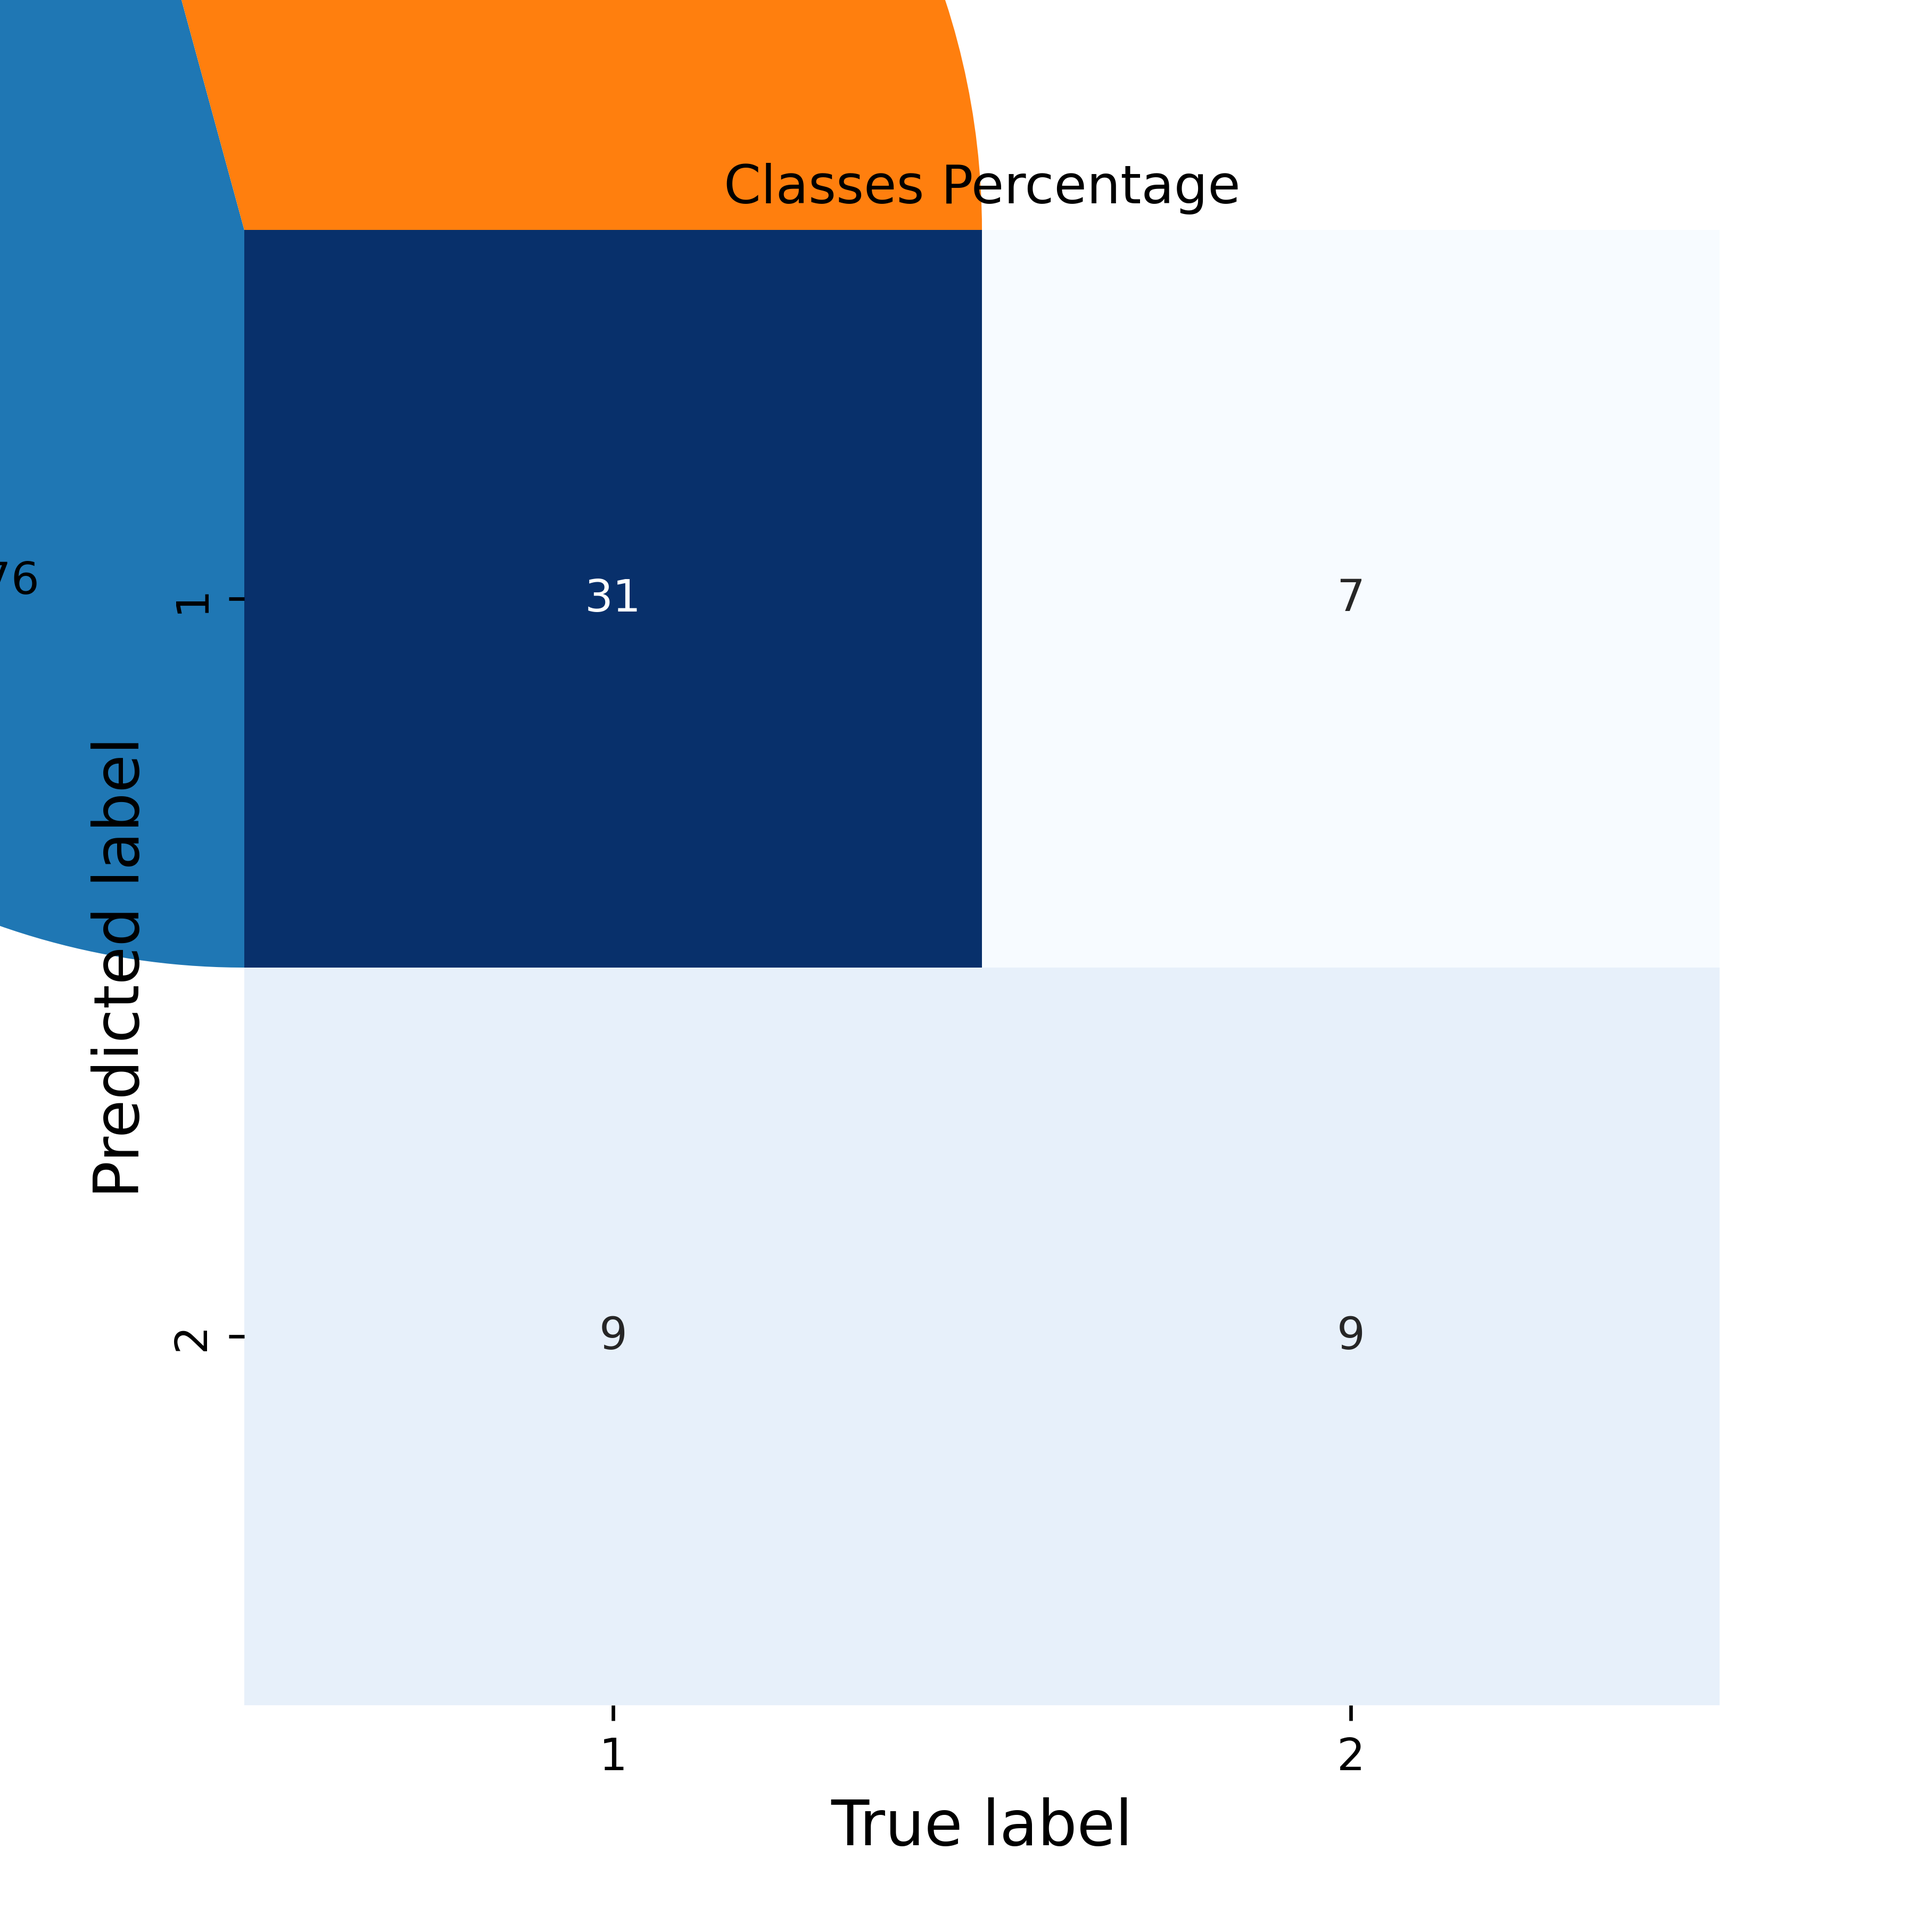
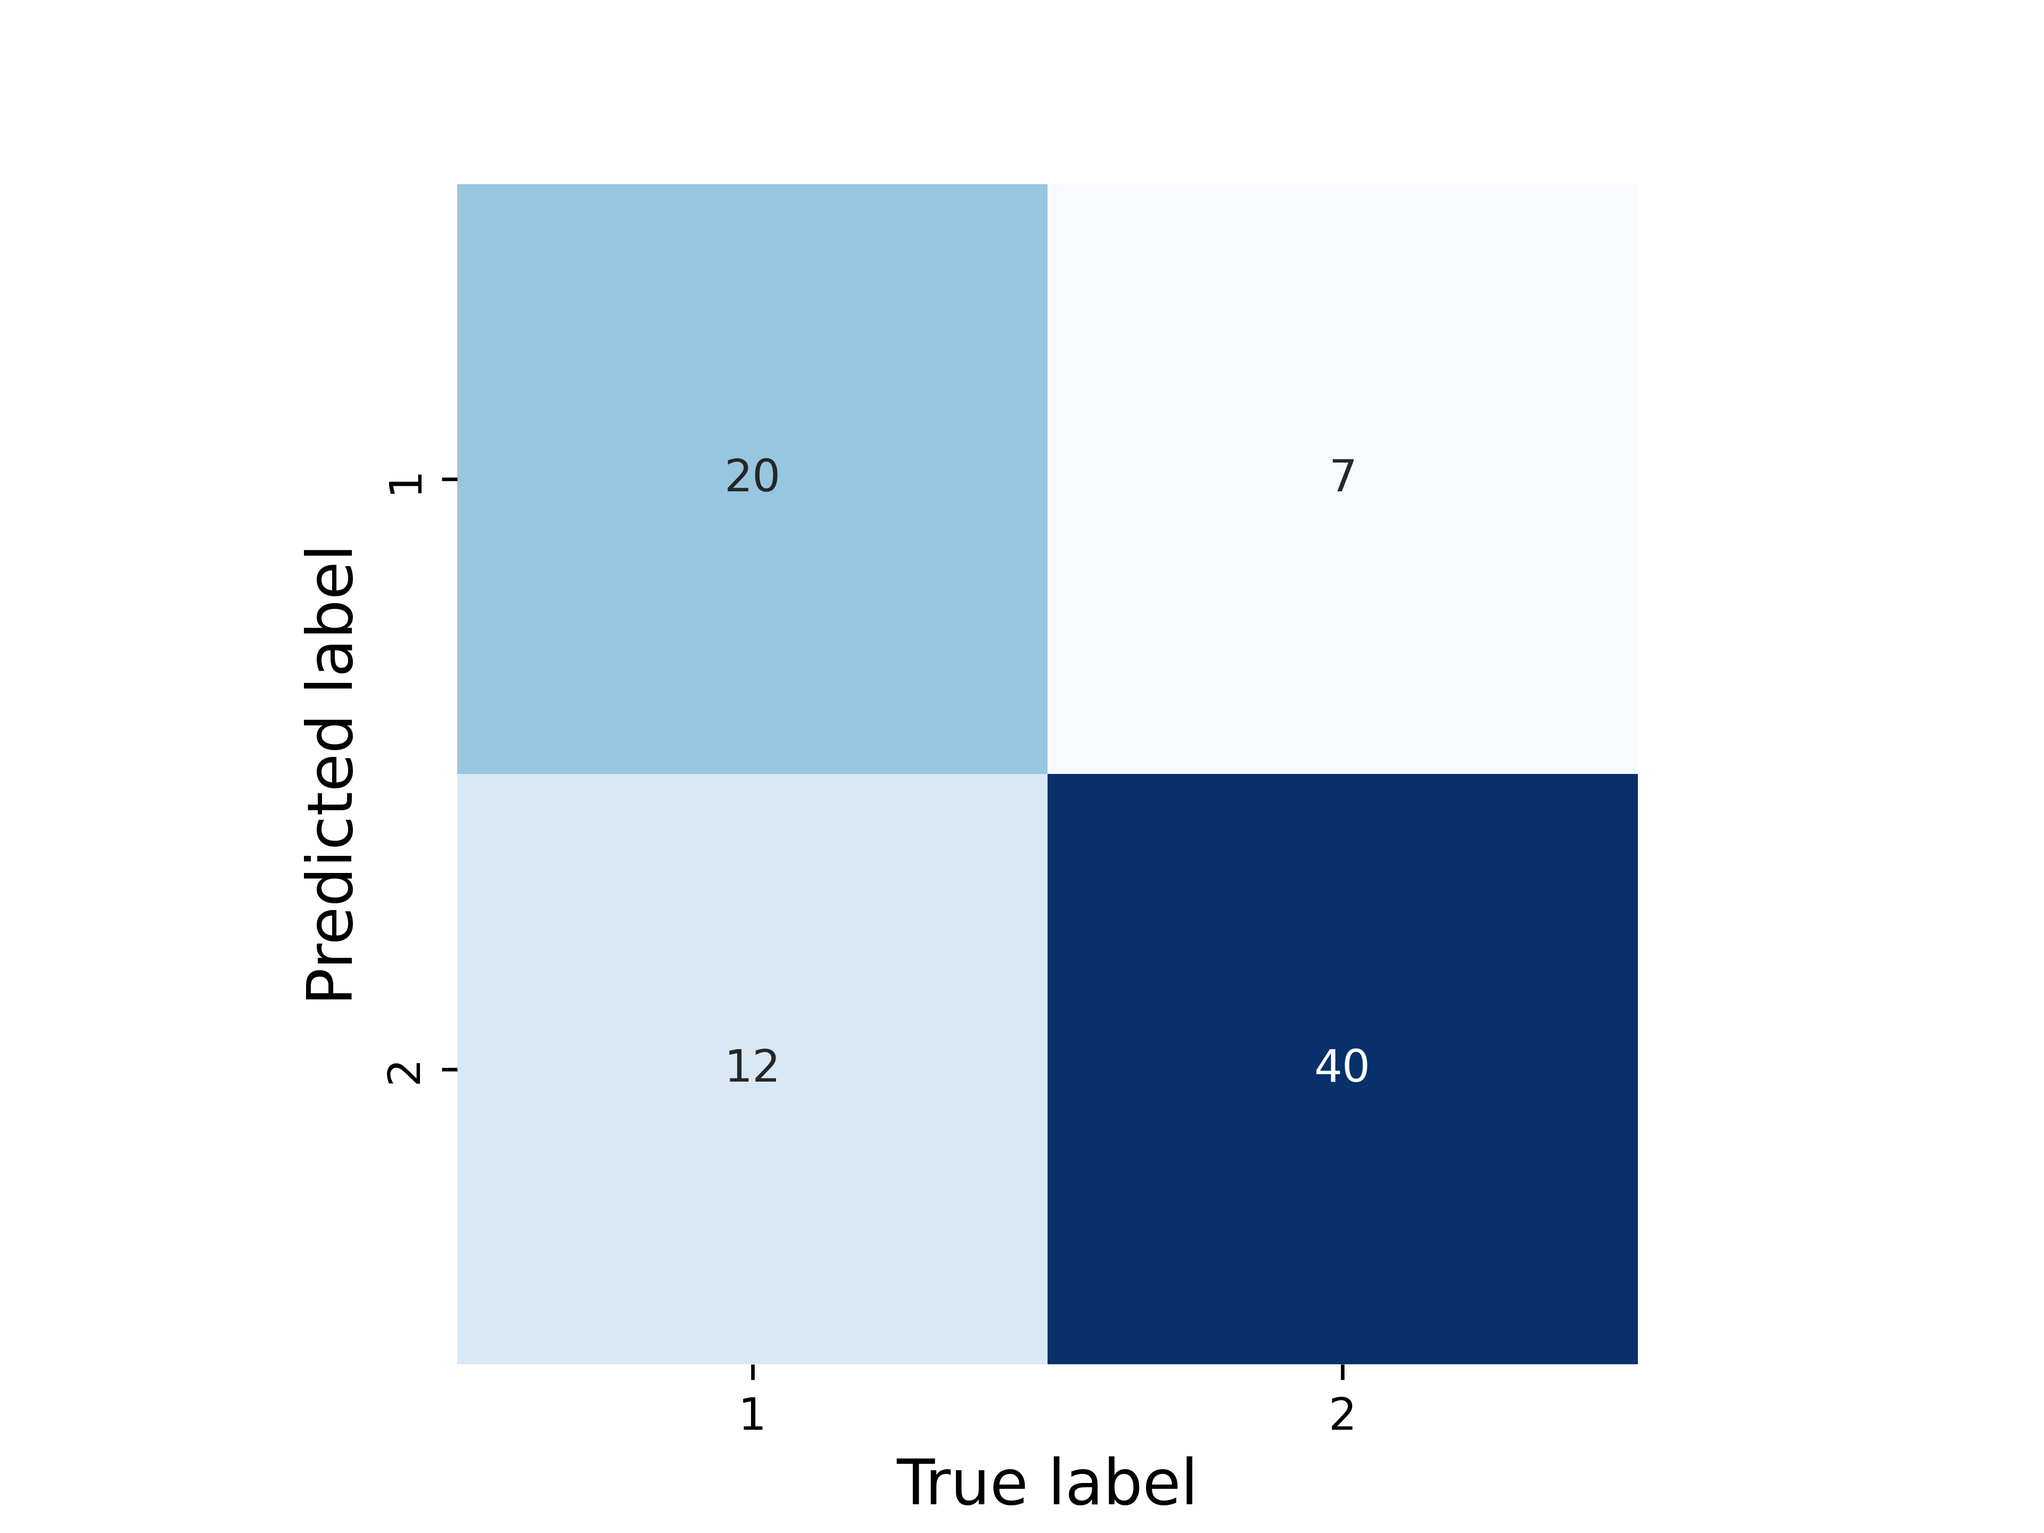
:bugfix:Fixed random sedd in order to have always the same results.

diff --git a/src/main.py b/src/main.py
@@ -1,114 +1,12 @@
 from database.bc_database import BreastCancerDB
 from preprocessing.preprocessing import Preprocessing
 
-from models.perceptron import Perceptron
-from models.adaline import Adaline
-
 import pandas as pd
-
-import seaborn as sns
-import matplotlib.pyplot as plt
-
-from sklearn.tree import DecisionTreeClassifier
-from sklearn.ensemble import RandomForestClassifier
-from sklearn.neighbors import KNeighborsClassifier
+import numpy as np
 
 from sklearn.model_selection import train_test_split
-from sklearn.metrics import accuracy_score, confusion_matrix
 
-def perceptron(X_train, X_test, y_train, y_test):
-    # Perceptron
-    perceptron = Perceptron(alpha=0.01, n_epochs=1000)
-    perceptron.train(X_train, y_train)
-    predictedPerceptron = perceptron.test(X_test)
-    print(f'Accuracy score for Perceptron: {accuracy_score(y_test, predictedPerceptron)}')
-    # Plot the confusion matrix.
-    mat = confusion_matrix(y_test, predictedPerceptron)
-    sns.heatmap(mat.T, square=True, annot=True, fmt='d', cbar=False, xticklabels=['1','2'], yticklabels=['1','2'], cmap="Blues")
-    plt.xlabel('True label', fontsize=14)
-    plt.ylabel('Predicted label', fontsize=14)
-    plt.savefig('src/models/images/confusion_matrix_perceptron.png', dpi=600)
-    plt.close()
-
-def adaline(X_train, X_test, y_train, y_test):
-    # Adaline
-    adaline = Adaline(alpha=0.01, n_epochs=1000, max_error=1e-12)
-    adaline.train(X_train, y_train)
-    predictedAdaline = adaline.test(X_test)
-    print(f'Accuracy score for Adaline: {accuracy_score(y_test, predictedAdaline)}')
-    # Plot the confusion matrix.
-    mat = confusion_matrix(y_test, predictedAdaline)
-    sns.heatmap(mat.T, square=True, annot=True, fmt='d', cbar=False, xticklabels=['1','2'], yticklabels=['1','2'], cmap="Blues")
-    plt.xlabel('True label', fontsize=14)
-    plt.ylabel('Predicted label', fontsize=14)
-    plt.savefig('src/models/images/confusion_matrix_adaline.png', dpi=600)
-    plt.close()
-
-def decisionTree(X_train, X_test, y_train, y_test):
-    # Decision Tree
-    decisionTree = DecisionTreeClassifier()
-    decisionTree.fit(X_train, y_train)
-    predictedDecisionTree = decisionTree.predict(X_test)
-    print(f'Accuracy score for Decision Tree: {accuracy_score(y_test, predictedDecisionTree)}')
-    # Plot the confusion matrix.
-    mat = confusion_matrix(y_test, predictedDecisionTree)
-    sns.heatmap(mat.T, square=True, annot=True, fmt='d', cbar=False, xticklabels=['1','2'], yticklabels=['1','2'], cmap="Blues")
-    plt.xlabel('True label', fontsize=14)
-    plt.ylabel('Predicted label', fontsize=14)
-    plt.savefig('src/models/images/confusion_matrix_decisionTree.png', dpi=600)
-    plt.close()
-
-def randomForest(X_train, X_test, y_train, y_test):
-    # Random Forest
-    randomForest = RandomForestClassifier()
-    randomForest.fit(X_train, y_train)
-    predictedRandomForest = randomForest.predict(X_test)
-    print(f'Accuracy score for Random Forest: {accuracy_score(y_test, predictedRandomForest)}')
-    # Plot the confusion matrix.
-    mat = confusion_matrix(y_test, predictedRandomForest)
-    sns.heatmap(mat.T, square=True, annot=True, fmt='d', cbar=False, xticklabels=['1','2'], yticklabels=['1','2'], cmap="Blues")
-    plt.xlabel('True label', fontsize=14)
-    plt.ylabel('Predicted label', fontsize=14)
-    plt.savefig('src/models/images/confusion_matrix_randomForest.png', dpi=600)
-    plt.close()
-
-def knn(X_train, X_test, y_train, y_test):
-    # K-Nearest Neighboor
-    acc_train = []
-    acc_test = []
-    score_max = 0
-    k_max = 0
-    Kmax = 99
-    for k in range(1, Kmax+1, 2):
-        # Create an instance of Neighbours Classifier and fit the data.
-        clf = KNeighborsClassifier(k, weights='distance')
-        # Train the classifier.
-        clf.fit(X_train, y_train)
-        # Predict.
-        predictedKnn = clf.predict(X_test)
-        # Calculate score.
-        score_test = clf.score(X_test, y_test)
-        acc_test.append(score_test)
-        score_train = clf.score(X_train, y_train)
-        acc_train.append(score_train)    
-        if(score_test > score_max):
-            score_max = score_test
-            k_max = k
-    # Train with best k
-    # Create an instance of Neighbours Classifier and fit the data.
-    clf = KNeighborsClassifier(k, weights='distance')
-    # Train the classifier.
-    clf.fit(X_train, y_train)
-    # Predict.
-    predictedKnn = clf.predict(X_test)
-    print(f'Accuracy score for KNN using {k_max} neighboors: {accuracy_score(y_test, predictedKnn)}')
-    # Plot the confusion matrix.
-    mat = confusion_matrix(y_test, predictedKnn)
-    sns.heatmap(mat.T, square=True, annot=True, fmt='d', cbar=False, xticklabels=['1','2'], yticklabels=['1','2'], cmap="Blues")
-    plt.xlabel('True label', fontsize=14)
-    plt.ylabel('Predicted label', fontsize=14)
-    plt.savefig('src/models/images/confusion_matrix_knn.png', dpi=600)
-    plt.close()
+from models.models import *
 
 def main():
     print('Succesfully started!')
@@ -118,6 +16,8 @@ def main():
     user = 'root'
     password = 'root'
     database = 'ag002'
+
+    np.random.seed(1000)
 
     # Accessing Database and getting information to train Machine Learning models
     bcDatabase = BreastCancerDB(host=host, port=port, user=user, password=password, database=database)

diff --git a/src/models/models.py b/src/models/models.py
@@ -1,0 +1,108 @@
+import pandas as pd
+import numpy as np
+
+import seaborn as sns
+import matplotlib.pyplot as plt
+
+from sklearn.tree import DecisionTreeClassifier
+from sklearn.ensemble import RandomForestClassifier
+from sklearn.neighbors import KNeighborsClassifier
+
+from models.neural_networks.perceptron import Perceptron
+from models.neural_networks.adaline import Adaline
+
+from sklearn.metrics import accuracy_score, confusion_matrix
+
+def perceptron(X_train, X_test, y_train, y_test):
+    # Perceptron
+    perceptron = Perceptron(alpha=0.001, n_epochs=15000)
+    perceptron.train(X_train, y_train)
+    predictedPerceptron = perceptron.test(X_test)
+    print(f'Accuracy score for Perceptron: {accuracy_score(y_test, predictedPerceptron)}')
+    # Plot the confusion matrix.
+    mat = confusion_matrix(y_test, predictedPerceptron)
+    sns.heatmap(mat.T, square=True, annot=True, fmt='d', cbar=False, xticklabels=['1','2'], yticklabels=['1','2'], cmap="Blues")
+    plt.xlabel('True label', fontsize=14)
+    plt.ylabel('Predicted label', fontsize=14)
+    plt.savefig('src/models/images/confusion_matrix_perceptron.png', dpi=600)
+    plt.close()
+
+def adaline(X_train, X_test, y_train, y_test):
+    # Adaline
+    adaline = Adaline(alpha=0.001, n_epochs=10000, max_error=1e-12)
+    adaline.train(X_train, y_train)
+    predictedAdaline = adaline.test(X_test)
+    print(f'Accuracy score for Adaline: {accuracy_score(y_test, predictedAdaline)}')
+    # Plot the confusion matrix.
+    mat = confusion_matrix(y_test, predictedAdaline)
+    sns.heatmap(mat.T, square=True, annot=True, fmt='d', cbar=False, xticklabels=['1','2'], yticklabels=['1','2'], cmap="Blues")
+    plt.xlabel('True label', fontsize=14)
+    plt.ylabel('Predicted label', fontsize=14)
+    plt.savefig('src/models/images/confusion_matrix_adaline.png', dpi=600)
+    plt.close()
+
+def decisionTree(X_train, X_test, y_train, y_test):
+    # Decision Tree
+    decisionTree = DecisionTreeClassifier()
+    decisionTree.fit(X_train, y_train)
+    predictedDecisionTree = decisionTree.predict(X_test)
+    print(f'Accuracy score for Decision Tree: {accuracy_score(y_test, predictedDecisionTree)}')
+    # Plot the confusion matrix.
+    mat = confusion_matrix(y_test, predictedDecisionTree)
+    sns.heatmap(mat.T, square=True, annot=True, fmt='d', cbar=False, xticklabels=['1','2'], yticklabels=['1','2'], cmap="Blues")
+    plt.xlabel('True label', fontsize=14)
+    plt.ylabel('Predicted label', fontsize=14)
+    plt.savefig('src/models/images/confusion_matrix_decisionTree.png', dpi=600)
+    plt.close()
+
+def randomForest(X_train, X_test, y_train, y_test):
+    # Random Forest
+    randomForest = RandomForestClassifier()
+    randomForest.fit(X_train, y_train)
+    predictedRandomForest = randomForest.predict(X_test)
+    print(f'Accuracy score for Random Forest: {accuracy_score(y_test, predictedRandomForest)}')
+    # Plot the confusion matrix.
+    mat = confusion_matrix(y_test, predictedRandomForest)
+    sns.heatmap(mat.T, square=True, annot=True, fmt='d', cbar=False, xticklabels=['1','2'], yticklabels=['1','2'], cmap="Blues")
+    plt.xlabel('True label', fontsize=14)
+    plt.ylabel('Predicted label', fontsize=14)
+    plt.savefig('src/models/images/confusion_matrix_randomForest.png', dpi=600)
+    plt.close()
+
+def knn(X_train, X_test, y_train, y_test):
+    # K-Nearest Neighboor
+    acc_train = []
+    acc_test = []
+    score_max = 0
+    k_max = 0
+    Kmax = 99
+    for k in range(1, Kmax+1, 2):
+        # Create an instance of Neighbours Classifier and fit the data.
+        clf = KNeighborsClassifier(k, weights='distance')
+        # Train the classifier.
+        clf.fit(X_train, y_train)
+        # Predict.
+        predictedKnn = clf.predict(X_test)
+        # Calculate score.
+        score_test = clf.score(X_test, y_test)
+        acc_test.append(score_test)
+        score_train = clf.score(X_train, y_train)
+        acc_train.append(score_train)    
+        if(score_test > score_max):
+            score_max = score_test
+            k_max = k
+    # Train with best k
+    # Create an instance of Neighbours Classifier and fit the data.
+    clf = KNeighborsClassifier(k, weights='distance')
+    # Train the classifier.
+    clf.fit(X_train, y_train)
+    # Predict.
+    predictedKnn = clf.predict(X_test)
+    print(f'Accuracy score for KNN using {k_max} neighboors: {accuracy_score(y_test, predictedKnn)}')
+    # Plot the confusion matrix.
+    mat = confusion_matrix(y_test, predictedKnn)
+    sns.heatmap(mat.T, square=True, annot=True, fmt='d', cbar=False, xticklabels=['1','2'], yticklabels=['1','2'], cmap="Blues")
+    plt.xlabel('True label', fontsize=14)
+    plt.ylabel('Predicted label', fontsize=14)
+    plt.savefig('src/models/images/confusion_matrix_knn.png', dpi=600)
+    plt.close()
